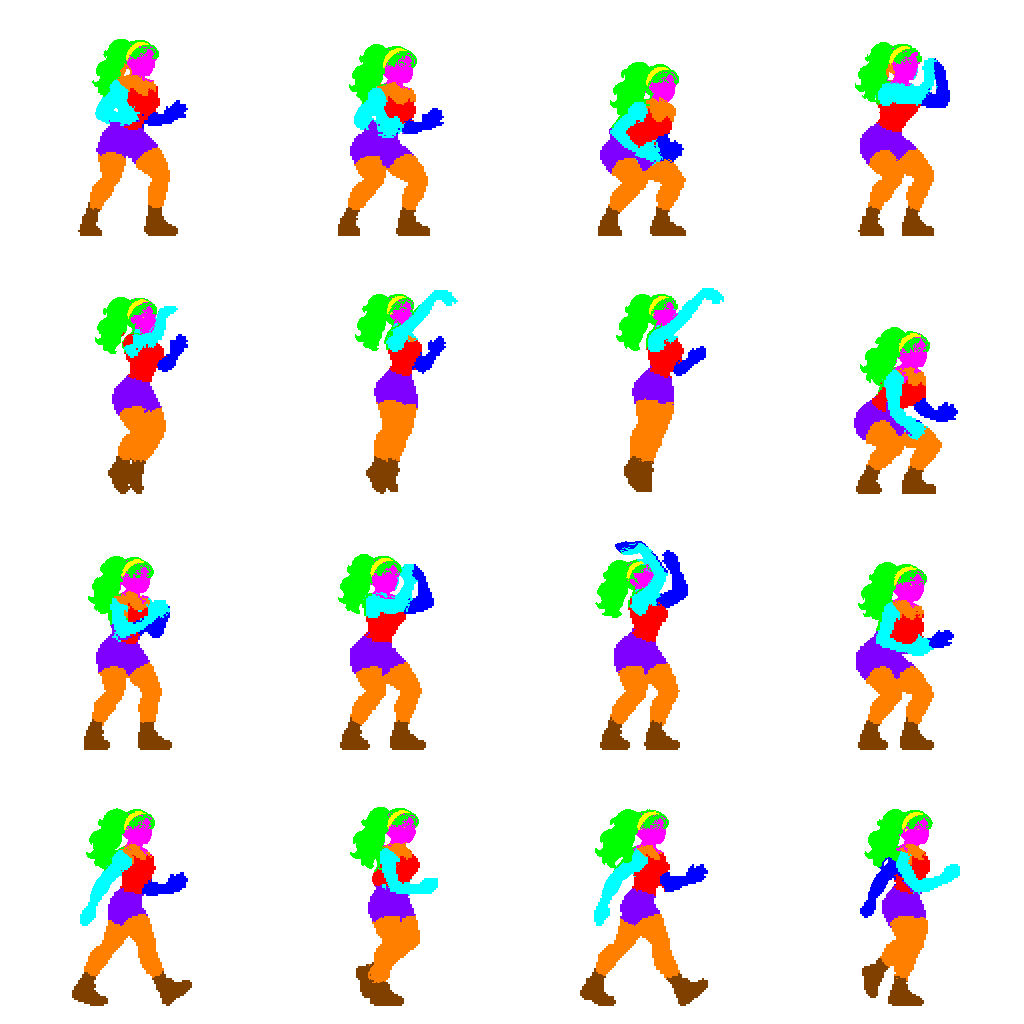
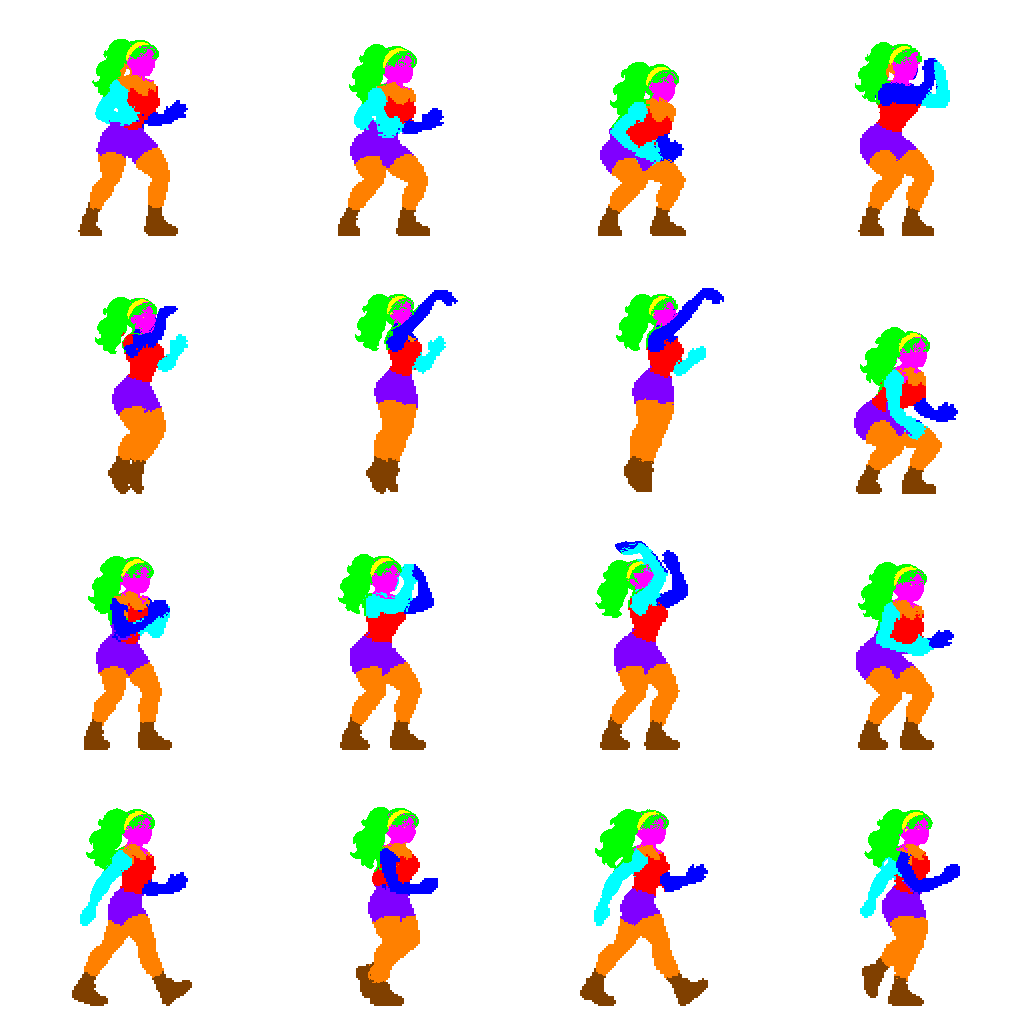
부위 지도 보강: 팔은 몸 기준(오른팔=공 잡는 손), GPT 작업 규칙, 요청서 014, 007–010 재개
Publish play build from two-bounce@40555d0

Claude-Session: https://claude.ai/code/session_0154ntKyVZsr8K9Le1PbzjWH

diff --git a/dev/index.html b/dev/index.html
@@ -19,11 +19,11 @@
 <label>유니폼 <select id="jersey"><option>크림</option><option>블루</option><option>레드</option></select></label>
 <label>헤어밴드 <select id="band"><option>없음</option><option>화이트</option><option>블랙</option><option value="골드" disabled>골드 헤어밴드 · 3연속</option></select></label><label>등번호 <input id="jerseyNumber" inputmode="numeric" maxlength="2" size="2"></label></fieldset>
 <label>난이도 <select id="level"><option value=".45">쉬움 · Lv.1</option><option value=".18">보통 · Lv.3</option><option value=".10">어려움 · Lv.5</option></select></label><label>게이지 방식 <select id="motion"><option value="classic">원샷 · 끝에 닿으면 실패</option><option value="bounce">왕복 · 위아래로 반복</option><option value="dial">원형 · 시계 방향으로 반복</option></select></label>
-<label>게이지 속도 <select id="pace"><option value="classic">기존 속도 · 0.95초</option><option value="auto">단계별 · 1.2초 → 1초</option><option value="slow">느림 · 1.2초</option><option value="normal">보통 · 1초</option><option value="fast">빠름 · 0.75초</option></select><small> 편도 또는 한 바퀴 기준 · 왕복이나 회전을 마칠 때마다 목표 띠가 좁고 흐려져요</small></label><label><input type="checkbox" id="randomBand"> 랜덤 목표 띠</label><label><input type="checkbox" id="promotion"> 10골마다 승급 <small id="promotionHint"></small></label><label><input type="checkbox" id="fadeBand"> 상급 목표 띠 숨기기 <small>Lv.4부터 적용</small></label><button id="sound" aria-pressed="true">소리 켜짐</button><button id="haptic" aria-pressed="true">진동 켜짐</button><button id="back" class="primary">이 설정으로 테스트 플레이</button></section></main><script src="./jun-full.js?v=f5c243d"></script><script src="./seojin-full.js?v=f5c243d"></script><script src="./player-atlas.js?v=f5c243d"></script><script src="./engine-v22.js?v=f5c243d"></script>
-<script src="./lab.js?v=f5c243d"></script>
+<label>게이지 속도 <select id="pace"><option value="classic">기존 속도 · 0.95초</option><option value="auto">단계별 · 1.2초 → 1초</option><option value="slow">느림 · 1.2초</option><option value="normal">보통 · 1초</option><option value="fast">빠름 · 0.75초</option></select><small> 편도 또는 한 바퀴 기준 · 왕복이나 회전을 마칠 때마다 목표 띠가 좁고 흐려져요</small></label><label><input type="checkbox" id="randomBand"> 랜덤 목표 띠</label><label><input type="checkbox" id="promotion"> 10골마다 승급 <small id="promotionHint"></small></label><label><input type="checkbox" id="fadeBand"> 상급 목표 띠 숨기기 <small>Lv.4부터 적용</small></label><button id="sound" aria-pressed="true">소리 켜짐</button><button id="haptic" aria-pressed="true">진동 켜짐</button><button id="back" class="primary">이 설정으로 테스트 플레이</button></section></main><script src="./jun-full.js?v=40555d0"></script><script src="./seojin-full.js?v=40555d0"></script><script src="./player-atlas.js?v=40555d0"></script><script src="./engine-v22.js?v=40555d0"></script>
+<script src="./lab.js?v=40555d0"></script>
 <script type="module">
 // One link per registered player: game/players/index.json is the only list.
-import {loadRoster} from '../game/players.js?v=f5c243d';
+import {loadRoster} from '../game/players.js?v=40555d0';
 const box = document.getElementById('liveLinks');
 for (const [id, spec] of await loadRoster()) {
   const link = document.createElement('a');

diff --git a/dev/shot-review.html b/dev/shot-review.html
@@ -19,11 +19,11 @@ canvas{display:block;image-rendering:pixelated}figure canvas{width:min(100%,128p
 <button id="normal" disabled>실제 속도</button> <button id="slow" disabled>¼배속</button>
 <p id="status" role="status"></p><canvas id="court" aria-label="코트에서 재생한 점프슛"></canvas></main>
 <script type="module">
-import {loadRoster, initialPlayer, costumesOf, outfitArt} from '../game/players.js?v=f5c243d';
-import {loadPlayer} from '../game/player-renderer.js?v=f5c243d';
-import {createRenderer} from '../game/render.js?v=f5c243d';
-import {newMatch, charge, release} from '../game/match.js?v=f5c243d';
-import {scene,rules} from '../game/defaults.js?v=f5c243d';
+import {loadRoster, initialPlayer, costumesOf, outfitArt} from '../game/players.js?v=40555d0';
+import {loadPlayer} from '../game/player-renderer.js?v=40555d0';
+import {createRenderer} from '../game/render.js?v=40555d0';
+import {newMatch, charge, release} from '../game/match.js?v=40555d0';
+import {scene,rules} from '../game/defaults.js?v=40555d0';
 
 const el = id => document.getElementById(id);
 const select = el('player'), status = el('status'), court = el('court');

diff --git a/game/main.js b/game/main.js
@@ -1,11 +1,11 @@
-import {scene as baseScene, rules} from './defaults.js?v=f5c243d';
-import {loadRoster, loadPortraits} from './players.js?v=f5c243d';
-import {setupHome} from './home.js?v=f5c243d';
-import {stored} from './storage.js?v=f5c243d';
-import {createPreview} from './preview.js?v=f5c243d';
-import {createRenderer} from './render.js?v=f5c243d';
-import {newMatch, charge, cancelCharge, release, advance} from './match.js?v=f5c243d';
-import {enableAudio, tone, swish} from './audio.js?v=f5c243d';
+import {scene as baseScene, rules} from './defaults.js?v=40555d0';
+import {loadRoster, loadPortraits} from './players.js?v=40555d0';
+import {setupHome} from './home.js?v=40555d0';
+import {stored} from './storage.js?v=40555d0';
+import {createPreview} from './preview.js?v=40555d0';
+import {createRenderer} from './render.js?v=40555d0';
+import {newMatch, charge, cancelCharge, release, advance} from './match.js?v=40555d0';
+import {enableAudio, tone, swish} from './audio.js?v=40555d0';
 
 const el = id => document.getElementById(id);
 const home = el('home'), court = el('court'), canvas = el('view'), button = el('shoot');

diff --git a/game/render.js b/game/render.js
@@ -1,10 +1,10 @@
-import {loadPlayer} from './player-renderer.js?v=f5c243d';
-import {createBallSprite} from './art/ball.js?v=f5c243d';
-import {drawCourt} from './art/court.js?v=f5c243d';
-import {createHoopLayer} from './art/hoop.js?v=f5c243d';
+import {loadPlayer} from './player-renderer.js?v=40555d0';
+import {createBallSprite} from './art/ball.js?v=40555d0';
+import {drawCourt} from './art/court.js?v=40555d0';
+import {createHoopLayer} from './art/hoop.js?v=40555d0';
 
-import {layoutFrame, COURT_SIZE} from './frame.js?v=f5c243d';
-export {hitStop} from './frame.js?v=f5c243d';
+import {layoutFrame, COURT_SIZE} from './frame.js?v=40555d0';
+export {hitStop} from './frame.js?v=40555d0';
 
 const {width, height} = COURT_SIZE;
 

diff --git a/game/preview.js b/game/preview.js
@@ -1,8 +1,8 @@
 // Character-select stage: the chosen player, large, idling with the ball and showing their jump shot every few
 // seconds. Switching players plays a short walk-in. It reuses the game's own sprite code, so a new player or
 // outfit appears here with no extra data. Reduced motion shows a still ready pose.
-import {loadPlayer} from './player-renderer.js?v=f5c243d';
-import {createBallSprite} from './art/ball.js?v=f5c243d';
+import {loadPlayer} from './player-renderer.js?v=40555d0';
+import {createBallSprite} from './art/ball.js?v=40555d0';
 
 // Room above the head for the highest jumper (35 dots) plus the released ball.
 const W = 240, H = 176, FLOOR = 158, CENTER = 140;

diff --git a/game/home.js b/game/home.js
@@ -1,7 +1,7 @@
 // Home screen: player cards, outfit buttons and the remembered choice. It knows nothing about the match.
-import {initialPlayer, costumesOf, initialCostume, outfitArt, prefetchWardrobe} from './players.js?v=f5c243d';
+import {initialPlayer, costumesOf, initialCostume, outfitArt, prefetchWardrobe} from './players.js?v=40555d0';
 
-import {stored} from './storage.js?v=f5c243d';
+import {stored} from './storage.js?v=40555d0';
 
 // A portrait comes from the published portrait sheet when it exists, otherwise from the player's own sheet
 // (url may be a promise: composed outfits are built in the browser first).

diff --git a/game/players.js b/game/players.js
@@ -1,7 +1,7 @@
 // Players are data: game/players/index.json lists them, game/players/<id>/player.json describes each one.
 // Adding a player or an outfit never needs a code change.
-import {asset} from './version.js?v=f5c243d';
-import {composeOutfit, prefetchParts} from './compose.js?v=f5c243d';
+import {asset} from './version.js?v=40555d0';
+import {composeOutfit, prefetchParts} from './compose.js?v=40555d0';
 
 const home = new URL('./players/', import.meta.url);
 const forms = new URL('./forms/', import.meta.url);

diff --git a/game/frame.js b/game/frame.js
@@ -1,7 +1,7 @@
 // Where everything is on one frame, as plain data: camera, player pose, ball, shadows, effects.
 // render.js only draws what this returns, so the rules of motion can be tested in Node and a different
 // renderer (PixiJS, a replay exporter) can reuse them unchanged.
-import {makeProjection} from './projection.js?v=f5c243d';
+import {makeProjection} from './projection.js?v=40555d0';
 
 export const COURT_SIZE = {width: 400, height: 500};
 const mix = (a,b,t) => a + (b-a)*t;

diff --git a/game/defaults.js b/game/defaults.js
@@ -1,6 +1,6 @@
-import {ball} from './art/ball.js?v=f5c243d';
-import {court} from './art/court.js?v=f5c243d';
-import {hoop} from './art/hoop.js?v=f5c243d';
+import {ball} from './art/ball.js?v=40555d0';
+import {court} from './art/court.js?v=40555d0';
+import {hoop} from './art/hoop.js?v=40555d0';
 
 // scene.player is filled in by the home screen (game/players.js).
 export const scene = {player: null, ball, court, hoop,

diff --git a/index.html b/index.html
@@ -64,6 +64,6 @@
       <footer><button id="leave">게임 종료 후 홈으로</button></footer>
     </section>
   </main>
-  <script type="module" src="./game/main.js?v=f5c243d"></script>
+  <script type="module" src="./game/main.js?v=40555d0"></script>
 </body>
 </html>

diff --git a/game/match.js b/game/match.js
@@ -1,4 +1,4 @@
-import {rules} from './defaults.js?v=f5c243d';
+import {rules} from './defaults.js?v=40555d0';
 
 const freeThrow = {x:200,y:330};
 const basket = {x:200,y:105};

diff --git a/game/art/ball.js b/game/art/ball.js
@@ -1,4 +1,4 @@
-import {asset} from '../version.js?v=f5c243d';
+import {asset} from '../version.js?v=40555d0';
 
 export const ball = {
   diameterM: .40,
